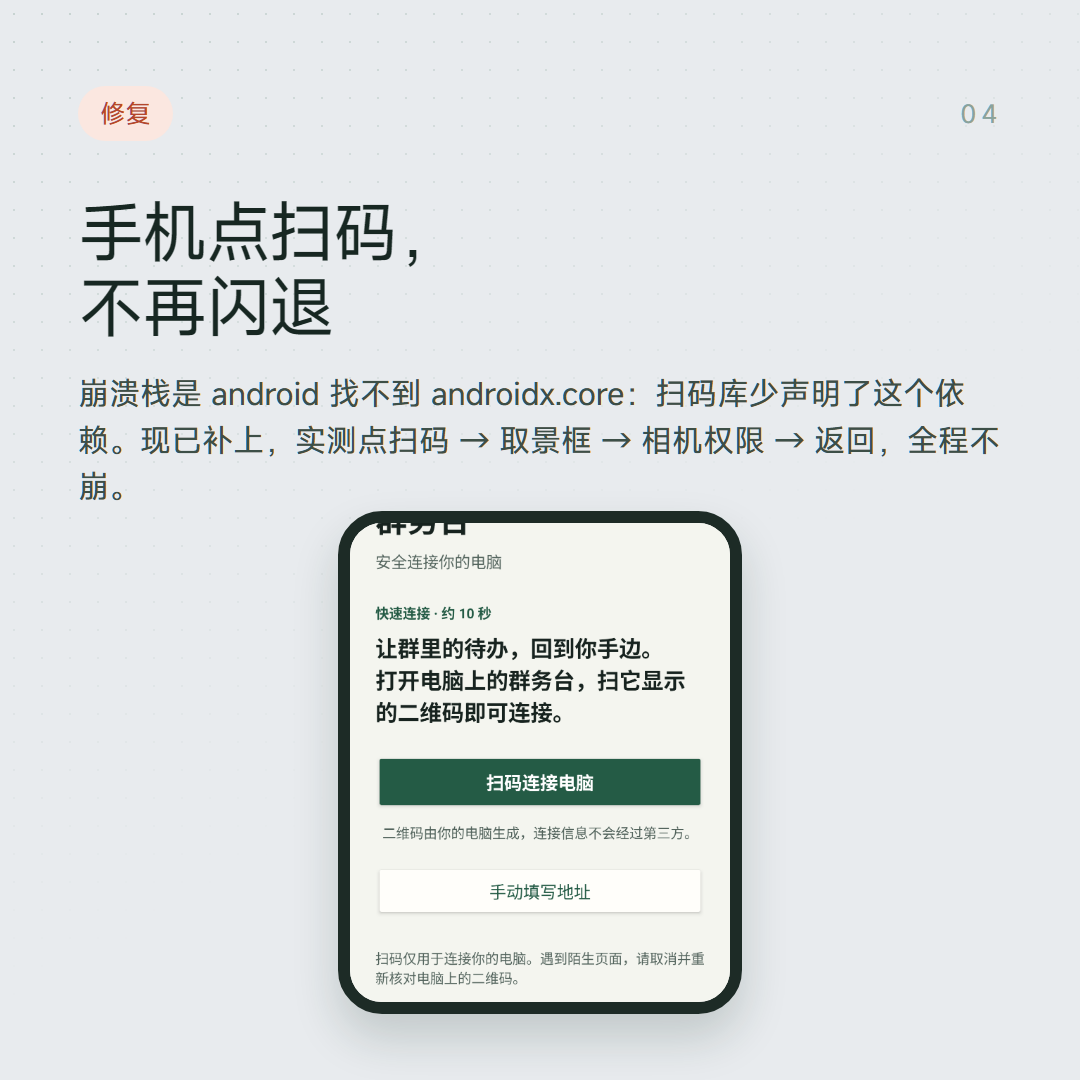
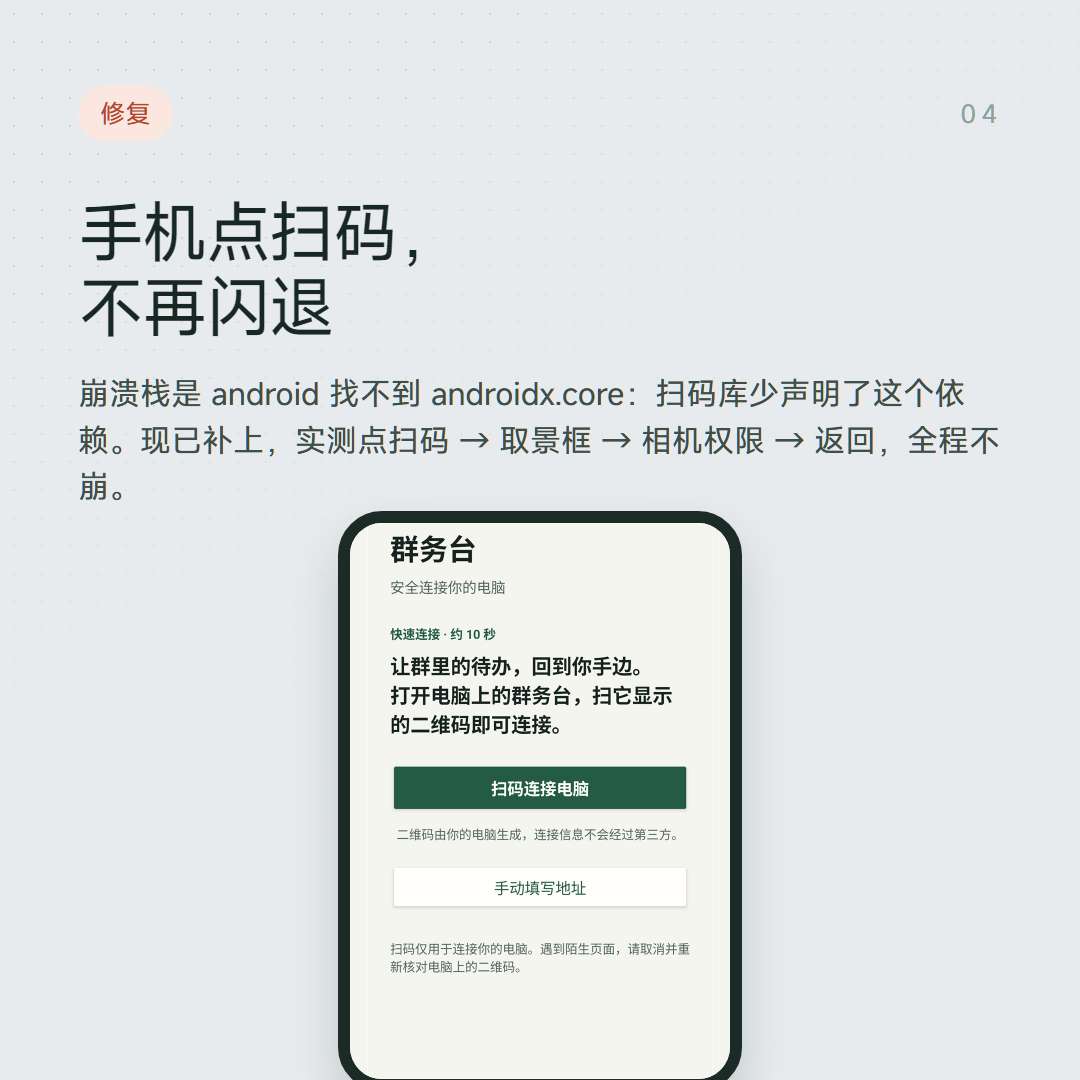
docs: 九宫格手机图改为整页不裁切（去掉状态栏与悬浮按钮）
按方案A：真机截图重取（裁掉状态栏/悬浮刷新按钮），合成为与手机框同比例的 760x1112 整页图，object-fit:cover 不再裁切页面顶部。

Changed region(s): [[0.3056, 0.4583, 0.7028, 1.0]]

diff --git a/docs/promo/beta-grid.html b/docs/promo/beta-grid.html
@@ -18,7 +18,7 @@ html,body{margin:0;background:#fff}
 .idx{font-size:25px;font-weight:800;letter-spacing:.2em;color:#8aa39b;font-variant-numeric:tabular-nums}
 h2{margin:54px 0 0;font-size:66px;line-height:1.14;letter-spacing:-.035em;font-weight:760}
 p{margin:26px 0 0;font-size:31px;line-height:1.5;font-weight:500;color:var(--muted)}
-.visual{margin-top:auto}
+.visual{margin-top:auto;flex:0 0 auto}
 /* ---------- 封面 ---------- */
 .cover{padding:80px 78px 0;background:linear-gradient(168deg,#f3f6f5,#e5e9ec 62%)}
 .cbrand{display:flex;align-items:center;gap:13px;color:var(--teal);font-size:20px;font-weight:800;letter-spacing:.09em}
@@ -118,7 +118,7 @@ p{margin:26px 0 0;font-size:31px;line-height:1.5;font-weight:500;color:var(--mut
     <div class="head"><span class="chip fix">修复</span><span class="idx">04</span></div>
     <h2>手机点扫码，<br>不再闪退</h2>
     <p>崩溃栈是 android 找不到 androidx.core：扫码库少声明了这个依赖。现已补上，实测点扫码 → 取景框 → 相机权限 → 返回，全程不崩。</p>
-    <div class="visual phone mid"><img src="shots/phone-connect.png" alt="群务台手机连接页"></div>
+    <div class="visual phone mid"><img src="shots/phone-connect-fit.png" alt="群务台手机连接页"></div>
   </div>
 
   <!-- 6 配对出口 -->
@@ -126,7 +126,7 @@ p{margin:26px 0 0;font-size:31px;line-height:1.5;font-weight:500;color:var(--mut
     <div class="head"><span class="chip new">新增</span><span class="idx">05</span></div>
     <h2>连不上、失效，<br>都有出口</h2>
     <p>连不上 / 令牌失效 / 从没连上过，分别给不同提示；页面上多了「重新配对」按钮，不用再猜长按返回键。</p>
-    <div class="visual phone"><img src="shots/phone-relink.png" alt="群务台手机连不上时的提示"></div>
+    <div class="visual phone"><img src="shots/phone-relink-fit.png" alt="群务台手机连不上时的提示"></div>
   </div>
 
   <!-- 7 扫码页横屏 -->
